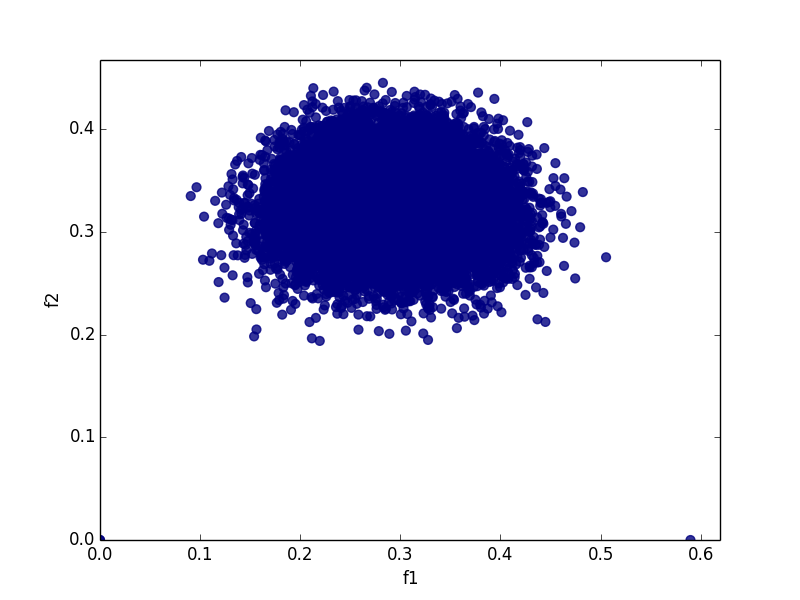
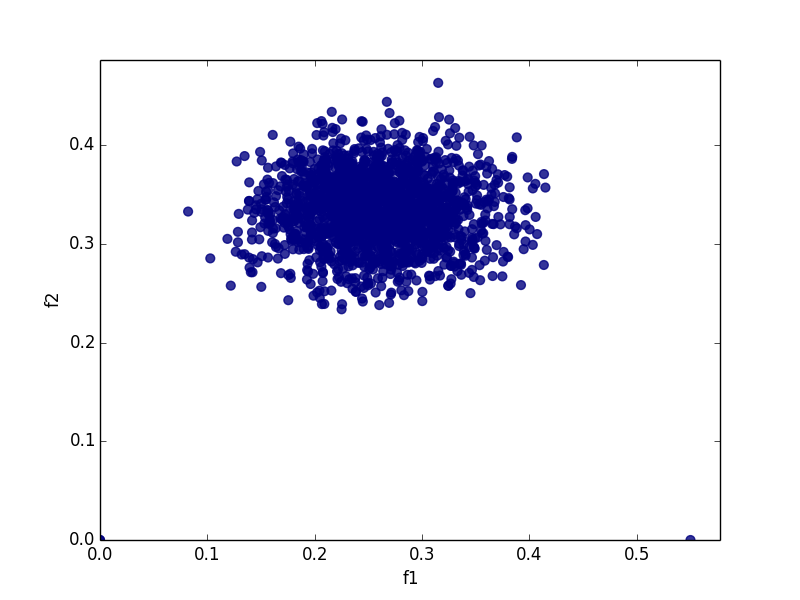
saving

diff --git a/sa1.py b/sa1.py
@@ -4,15 +4,22 @@ sys.dont_write_bytecode = True
 import random,math
 
 
-r = random.random
+r    = random.random
+any  = random.choice
 seed = random.seed
 sqrt = math.sqrt
+
+def r3(x)    : return round(x,3)
+def r3s(lst) : return map(r3,lst)
 
 class o:
   def __init__(i,**d)    : i.__dict__.update(d)
   def __setitem__(i,k,v) : i.__dict__[k] = v
   def __getitem__(i,k)   : return i.__dict__[k]
   def __repr__(i)        : return 'o'+str(i.__dict__)
+  def setOnce(i,k,v) :
+    if not k in i.__dict__:
+      i.__dict__[k] = v
 
 def same(x): return x
 def lt(x,y): return x < y
@@ -63,8 +70,8 @@ class ZDT1(Model):
     def f1(x):
       return x.decs[0]
     def f2(x):
-      g = 1 + 9*sum(x for x in x.decs[1:] )/(ZDT1.n-1)
-      return g*abs(1 - sqrt(x.decs[0]*g))
+      g = 1 + 9 * sum(x for x in x.decs[1:] )/(ZDT1.n-1)
+      return  g * abs(1 - sqrt(x.decs[0]*g))
     def dec(x):
       return An(x,lo=0,hi=1)
     i.decs = [dec(x) for x in range(ZDT1.n)]
@@ -148,17 +155,19 @@ class XY:
       x  = (a**2 + i.c**2 - b**2) / (2*i.c)
       if x > a:
         x = a
-      y  = sqrt(a**2 - x**2)
+      y = sqrt(a**2 - x**2)
       one.a, one.b, one.x, one.y = a,b,x,y
       x1,y1= int(x/(i.c/i.bins)), int(y*i.bins)
       x1   = min(i.bins - 1, x1)
       y1   = min(i.bins - 1, y1)
-      i.cells[x1][y1].append(one)
+      i.cells[x1][y1] += [one]
       one.easterly = a<b
       return x,y
   def half(i,easterly=True):
-    return [x for x in i.values
+    inits = [x for x in i.values
               if x.easterly==easterly]
+    return XY(inits,
+              value=i.value,big=i.big,bins=i.bins)
   def bounds(i):
     xs= sorted([one.x for one in i.values])
     ys= sorted([one.y for one in i.values])
@@ -182,20 +191,59 @@ def graph_it(population, model, scale):
     ax.set_xlabel('f1')
     ax.set_ylabel('f2')
     fig.savefig(file_name)
-                
+
+def gale0(model,repeats=256):
+  decs = lambda x:x.decs
+  grid = XY([model() for _ in xrange(repeats)],
+            value=decs)
+  for _ in range(10):
+    grid= grid.half(
+            model.bdom(grid.east,grid.west))
+
+
+  def smear(all,lo,hi,f=0.25,cf=0.5,value=same):
+  as,bs,cs = any(all), any(all), any(all)
+  tmp =[smear1(a,b,c,n)
+        for n,(a,b,c)
+        in  enumerate(zip(as.decs,
+                          bs.decs,
+                          cs.decs))]
+  return o(decs=tmp)
+  
+def smear1(a,b,c,n):
+  return bound(a + f*(b - c) if r()< cf else a,
+               lo[n], hi[n])
+
+def bound(x, lo, hi):
+  return (((x - lo) % (hi - lo)) + lo)
+
+gale0(ZDT1())
+
+exit()
 model=ZDT1()
 m=0
 seed(12)
 decs = lambda x:x.decs
 grid=XY([model.one() for _ in range(32)],
         value=decs)
-for _ in range(10000):   
+for _ in range(1000):   
     x = model.one()
     y = model.one()
     grid + x
     grid + y
     if model.bdom(x,y): m += 1
-print(m,len(grid.values))
+easterly = model.bdom(grid.east,grid.west)
+
+grid1 = grid.half(easterly)
+
+print("")
+print(r3s(grid.deltas.lo))
+print(r3s(grid1.deltas.lo))
+
+print(r3s(grid.deltas.hi))
+print(r3s(grid1.deltas.hi))
+
+print("grdi1",m,len(grid.values))
 print(grid.bounds())
 print(grid.east.x,grid.east.y)
 print(grid.west.x,grid.west.y)
@@ -210,3 +258,13 @@ for n1,x in enumerate(grid.cells):
   for n2,y in enumerate(x):
     if y:
       print(n1,n2,len(y))
+
+
+a=o(b=1,c=2)
+
+a.setOnce('b',10)
+a.setOnce('d',10)
+a.setOnce('d',11)
+print(a)
+
+
